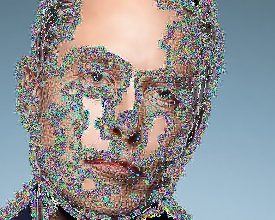
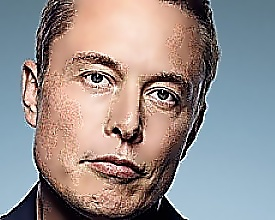
fix 6 task

diff --git a/main.py b/main.py
@@ -51,8 +51,16 @@ cv2.imwrite("img_morph.jpg", erosion)
 
 #6 пункт
 img_gaus = cv2.imread('img_morph.jpg',0)
-img_gaus=cv2.GaussianBlur(img_gaus,(5,5),cv2.BORDER_DEFAULT)
+img_gaus = cv2.GaussianBlur(img_gaus,(5,5),0)
 cv2.imwrite("img_gaus.jpg", img_gaus)
+
+img_gaus = cv2.imread('img_gaus.jpg',0)
+
+zeros_like1 = np.zeros_like(img_gaus)
+
+img_gaus  = cv2.normalize(img_gaus, zeros_like1, 1, 0, cv2.NORM_MINMAX)
+
+#cv2.imwrite("img_gaus_with_norma.jpg", img_gaus)
 #cv2.imshow('img', img_gaus)
 
 
